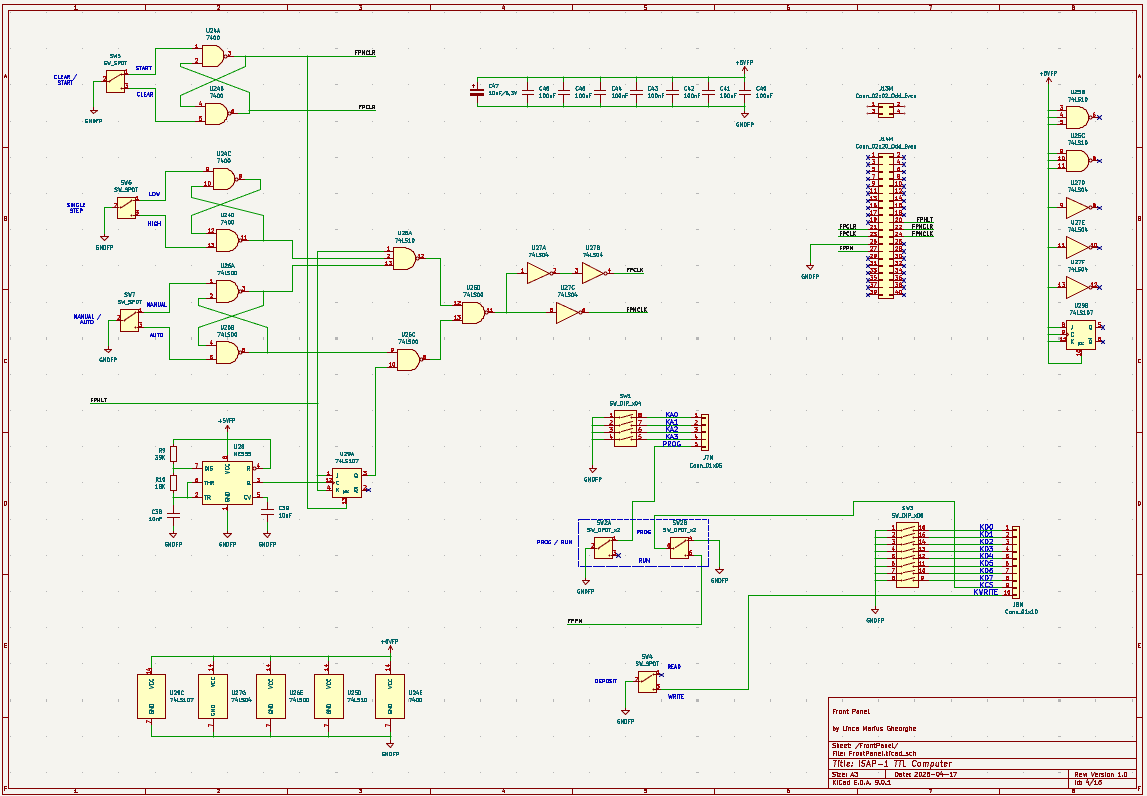
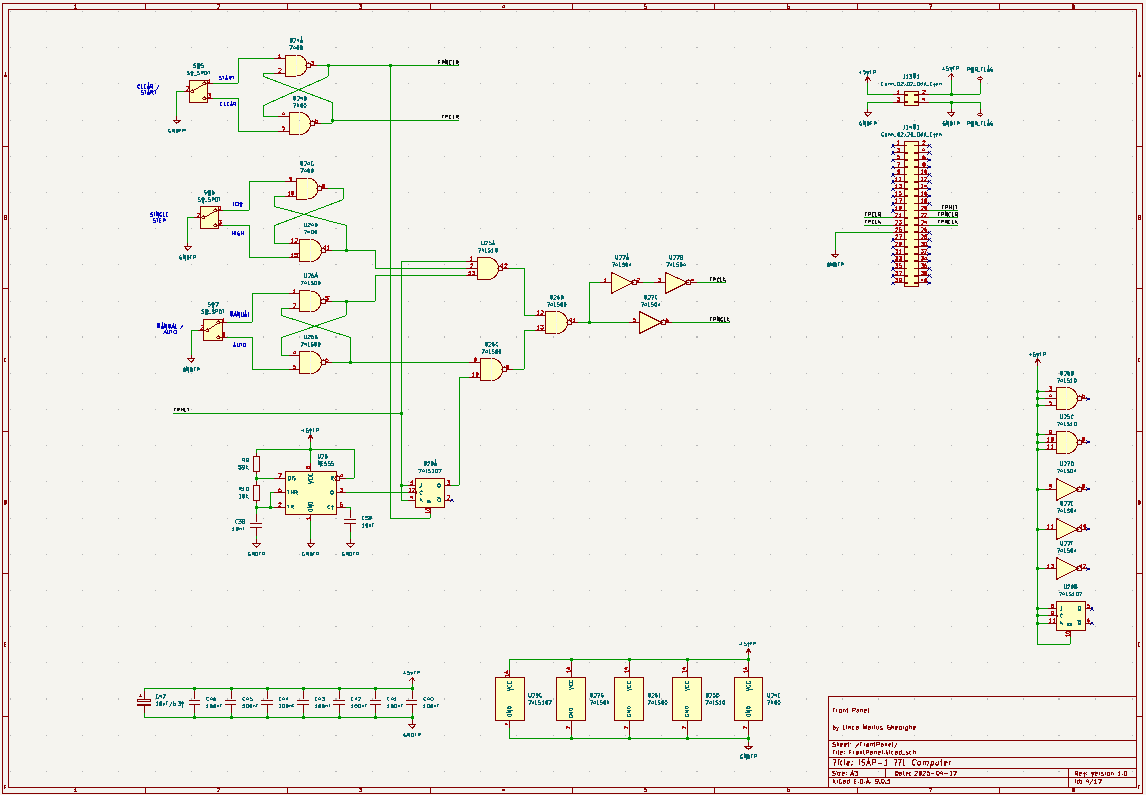
modified:   Pictures/Figure16.png

diff --git a/README.md b/README.md
@@ -267,21 +267,28 @@ An overview for the Binary Display is shown in the following figure
 ### Front Panel Schematic
 The Front Panel provides the user interface. Contains the Reset circuit, Manual/Automatic mode selector, Step button, main clock.
 
+I added 100nF decoupling capacitors for each integrated circuit used and a 10uF filter capacitor.
+
+I added a connector marked J13M1 for connection to the Back Plane through which the power supply is provided.
+
+The connector marked J14M1 allows connection to the Base Plane and provides connections to the three system buses.
+
+The switches can be mounted on this module or mounted on a Front Panel and connected via wires.
+
+The schematic does not present any other changes compared to the original one.
+
+![ Figure 16 ](/Pictures/Figure16.png)
+
 The switches used to set the Memory in Programming mode must also be placed on the Front Panel.
 
 The J7M connector transmits the address set by the SW1 switches to the Memory module.
 
 The J8M connector transmits the numerical value set by the SW3 switches to the Memory module.
 
-I added a connector marked J13M1 for connection to the Back Plane through which the power supply is provided.
+I designed this part as a separate module that can be attached to the Memory Module as a daughter board.
 
-The connector marked J14M1 allows connection to the Base Plane and provides connections to the three system buses.
+The switches can be mounted on this module or mounted on a Front Panel and connected via wires.
 
-I added 100nF decoupling capacitors for each integrated circuit used and a 10uF filter capacitor.
-
-The schematic does not present any other changes compared to the original one.
-
-![ Figure 16 ](/Pictures/Figure16.png)
 
 ### Control Unit Schematic
 The Control Unit's role is to direct the flow of data between the various Blocks of the Computer to ensure its operation and achieve the expected results.
